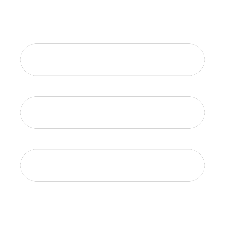
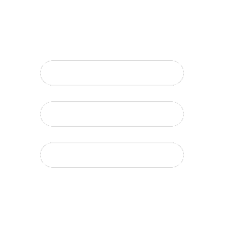
menu burger con radius en search

diff --git a/Public/css/search.css b/Public/css/search.css
@@ -12,12 +12,13 @@ body{
     position: absolute;
     color: #fff;
     font-size: 13px;
-    bottom: 0px;
+    bottom: 5%;
     left: 0px;
     padding-left: 2%;
     right: 0;
     text-align: left;
     z-index: 3;
+   
 }
 .textSrch h1 {
     margin: 0px;
@@ -38,11 +39,12 @@ body{
 }
 .resumenSrch p{
     margin: 0px;
+     
     padding-left: 2%;
 }
 .cardSrch {
     height:100vh;
-    margin-bottom: 70px;
+    margin-bottom: 10%;
 }
 .Poster{
     width: 100%;
@@ -89,3 +91,91 @@ body{
     
 }
 ::placeholder { color: white;}
+
+#imgMenu{
+    position: fixed;
+    display: flex;
+    justify-content: center;
+    right: 50%;
+    bottom: 20px;
+    width: 100%;
+    
+    padding: 9px 6px;
+    border-radius: 50%;
+    opacity: 1 !important;
+    z-index: 40;
+    
+    pointer-events: auto;
+    transform: translateX(50%);
+    transition: opacity .3s;
+    
+
+}
+
+#imgBurger{
+     width: 100%;
+}
+
+
+#menuBurger {
+    margin-top: 0%;
+    padding-top: 10%;
+    padding-bottom: 100%;
+    margin-left: 0%;
+    width: 70%;
+    font-style: bolder;
+    height: 100%;
+    font-size: 1.2rem;
+    text-decoration: none;
+    flex-direction: column;
+    background-color: black;
+    color: white;
+    
+    position: fixed;
+  }
+  li {
+    padding: 5%;
+  }
+  #containerMenu {
+      position: absolute;
+    display: none;
+    background-color: black;
+    height: 100%;
+    width: 80%;
+    z-index: 20;
+  }
+  header {
+    margin-top: 0%;
+    width: 100%;
+    background-color: black;
+    height: 80px;
+  }
+  
+  #menuIcon,
+  #menuIcon2 {
+    width: 15%;
+    border: solid 3px white;
+    margin-top: 0%;
+    margin-left: 2%;
+  }
+  
+  .blockMenu {
+    display: block;
+    background-color: black;
+    border-radius: 50%;
+  }
+  
+  .noneMenu {
+    display: none;
+    border-radius: 50%;
+  }
+  
+  a{
+      color: white;
+      text-decoration: none;
+  }
+
+  li {
+    text-decoration: none;
+    list-style: none;
+  }
